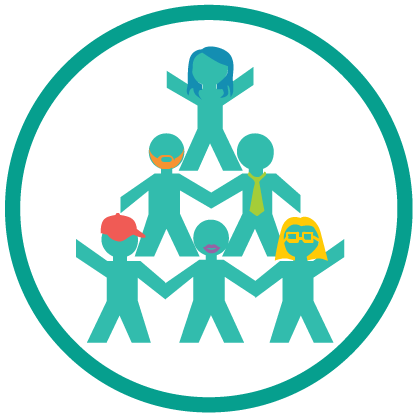
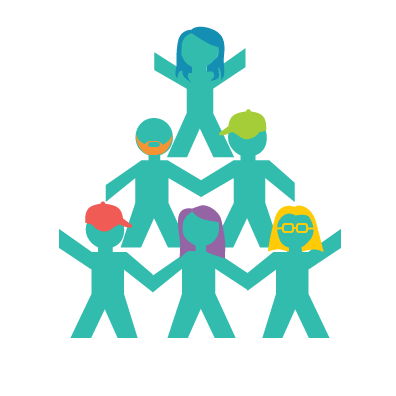
Landing page stuff

Changed region(s): [[0.0, 0.0, 1.0, 1.0], [0.4848, 0.7273, 0.6061, 0.8788], [0.4242, 0.7879, 0.4848, 0.8788]]

diff --git a/app/assets/stylesheets/home.css.scss b/app/assets/stylesheets/home.css.scss
@@ -1,8 +1,8 @@
 .landing-page{
 	width:100%;
 	color:#ffffff;
-	min-height:200px;
-	padding: 20px;
+	min-height:300px;
+	padding: 60px 20px;
 }	
 
 #page-1{
@@ -16,13 +16,50 @@
 
 #page-3{
 	background-color: #FFCA06;
-	height:300px;
+	height:500px;
 }	
 
 #page-4{
 	background-color: #A5CD38;
+	height:500px;
 }
 
 #page-5{
 	background-color: #32B4E8;
+	height:750px;
+}
+
+.pyramid{
+  border-radius:400px;
+  border: 10px solid #069F8E;
+}
+
+.survey{
+	width:500px;
+	height:auto;
+	border-radius:10px;
+	border: 10px solid #E4A212;
+}
+
+.concept-flow{
+	width:500px;
+	height:auto;
+	border-radius:10px;
+	border: 10px solid #73A433;
+}
+
+.team-member-image{
+   width:160px;
+   height:160px;
+   border-radius:160px;
+   border:10px solid #148EB2;
+   background-color:#ffffff;
+   margin-bottom:12px;
+}
+
+.who-member{
+  text-align:center;
+  color:#fff;
+  float:left;
+  margin:20px;
 }
